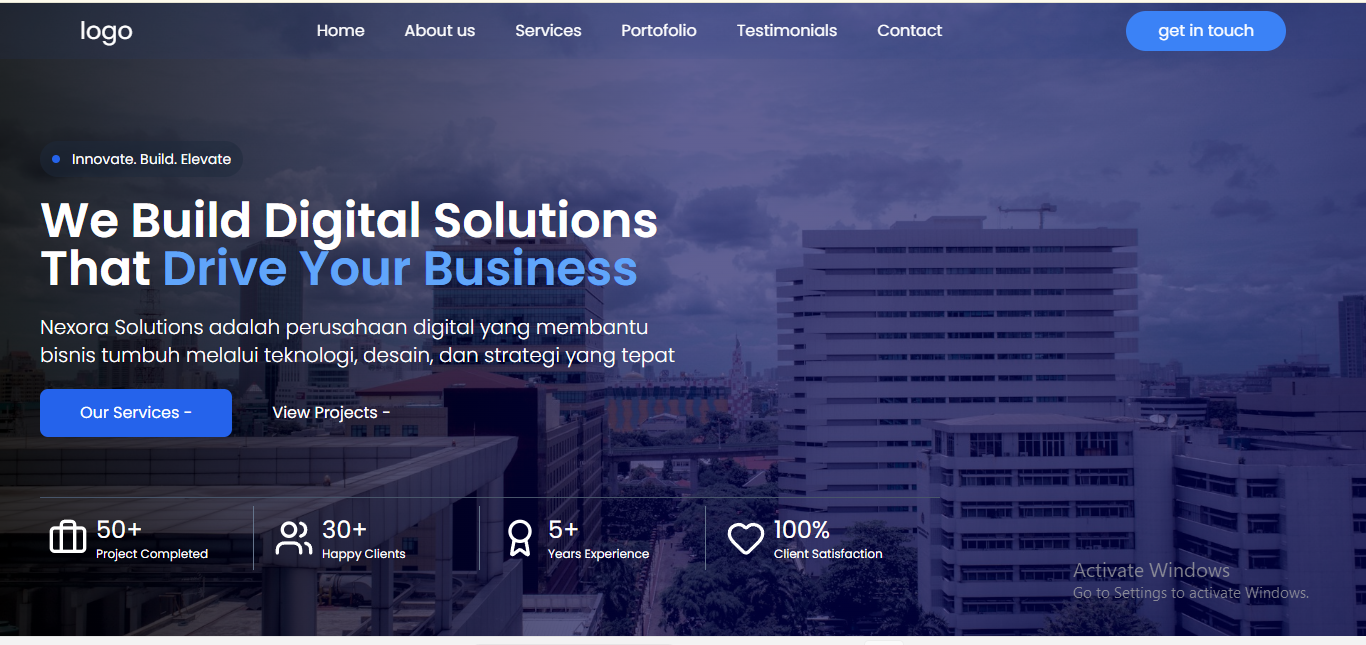
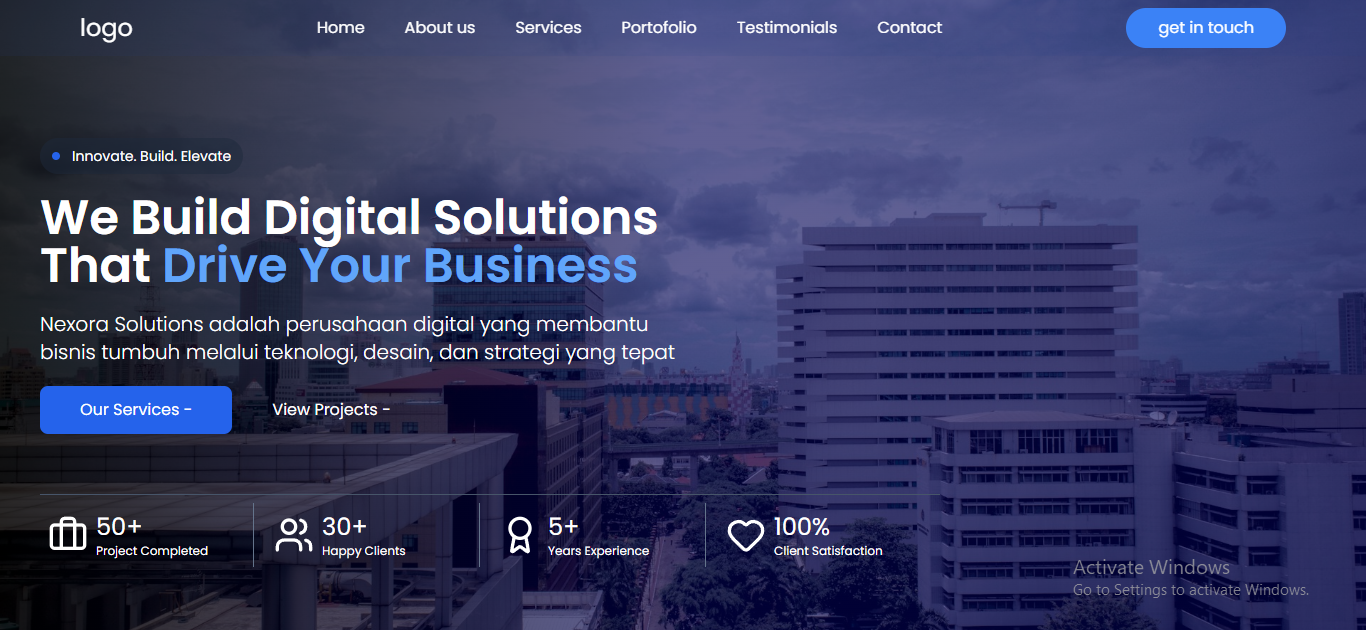
''

diff --git a/src/components/sections/Hero.jsx b/src/components/sections/Hero.jsx
@@ -12,12 +12,22 @@ export default function Hero() {
   //     ket: "Projects Completed",
   //     icon: Briefcase,
   //   },
+  //   {
+  //     count: "10+",
+  //     ket: "Projects Completed",
+  //     icon: Briefcase,
+  //   },
+  //   {
+  //     count: "10+",
+  //     ket: "Projects Completed",
+  //     icon: Briefcase,
+  //   },
 
   // ];
   return (
     <section
       id="Home"
-      className="scroll-mt-20 min-h-[30vh] mt-10 lg:mt-0 flex flex-col justify-center bg-zinc-950 w-full   p-3   lg:p-10">
+      className="scroll-mt-20 min-h-screen mt-10 lg:mt-0 flex flex-col justify-center bg-zinc-950 w-full   p-3   lg:p-10">
       <div className="grid grid-cols-1  md:grid-cols-2 gap-5 h-full">
         {/* left */}
         <div className="p-2 flex  flex-col  justify-center gap-2 lg:gap-5  ">
@@ -74,7 +84,7 @@ export default function Hero() {
       </div>
       {/* stats */}
       {/* <div className="p-5 bg-zinc-900 rounded-3xl w-fit border border-zinc-800 mt-5">
-        <div className="grid lg:grid-cols-1 gap-10">
+        <div className="grid lg:grid-cols-3  gap-10">
           {stats.map((item) => {
             const Icon = item.icon;
             return (

diff --git a/src/components/sections/Projects.jsx b/src/components/sections/Projects.jsx
@@ -1,6 +1,7 @@
 import { ArrowRight, Send } from "lucide-react";
 import project1 from "../../assets/projects/1.png";
 import project2 from "../../assets/projects/2.png";
+import project3 from "../../assets/projects/3.png";
 import "./projects.css";
 import { Link } from "react-router";
 
@@ -19,14 +20,14 @@ export default function Projects() {
     {
       title: "Web Portofolio",
       ket: "ilyas samsudin",
-      img: project1,
+      img: project3,
     },
   ];
 
   return (
     <section
       id="Projects"
-      className=" scroll-mt-20 min-h-[30vh] text-start w-full mt-10 lg:mt-0 p-5 lg:p-10 border-t border-slate-800">
+      className=" scroll-mt-20 min-h-screen text-start w-full mt-10 lg:mt-0 p-5 lg:p-10 border-t border-slate-800">
       <div className="flex justify-between items-center">
         <h2 className="flex text-sm text-cyan-500 lg:text-xl gap-5 font-semibold items-center">
           {" "}
@@ -45,7 +46,7 @@ export default function Projects() {
             <div className="p-2 shadow-lg rounded-2xl bg-zinc-900">
               <img
                 src={item.img}
-                className="h-[200px] w-full object-cover"
+                className="h-[200px] w-full object-cover "
                 alt=""
               />
 
@@ -65,7 +66,6 @@ export default function Projects() {
 
       
       </div>
-
       <div className=" py-5 px-10 bg-zinc-900 mt-5 rounded-xl flex-col md:flex-row flex justify-between gap-5 md:items-center">
         {/* left */}
         <div className="flex flex-col md:flex-row gap-5">

diff --git a/src/components/sections/Goals.jsx b/src/components/sections/Goals.jsx
@@ -42,9 +42,6 @@ export default function Goals() {
             yang mendorong saya ke depan
           </p>
         </div>
-
-
-
         {/* grid */}
         <div className=" backgroundGrid p-2 lg:p-5 grid grid-cols-1 md:grid-cols-2 gap-5">
           {data.map((item) => {

diff --git a/src/components/sections/Skills.jsx b/src/components/sections/Skills.jsx
@@ -4,7 +4,7 @@ import { SiTailwindcss } from "react-icons/si";
 export default function Skills() {
 
   return (
-    <section id="Skills" className=" scroll-mt-20 mt-10 p-5 lg:p-10 w-full text-start">
+    <section id="Skills" className=" scroll-mt-20 mt-10 p-5 lg:p-10 w-full text-start min-h-[50vh]">
       <h2 className=" text-sm lg:text-xl font-semibold text-start flex items-center gap-5 text-cyan-500">
         <span className="h-2  w-2 rounded-full bg-cyan-500"></span>
         Skills